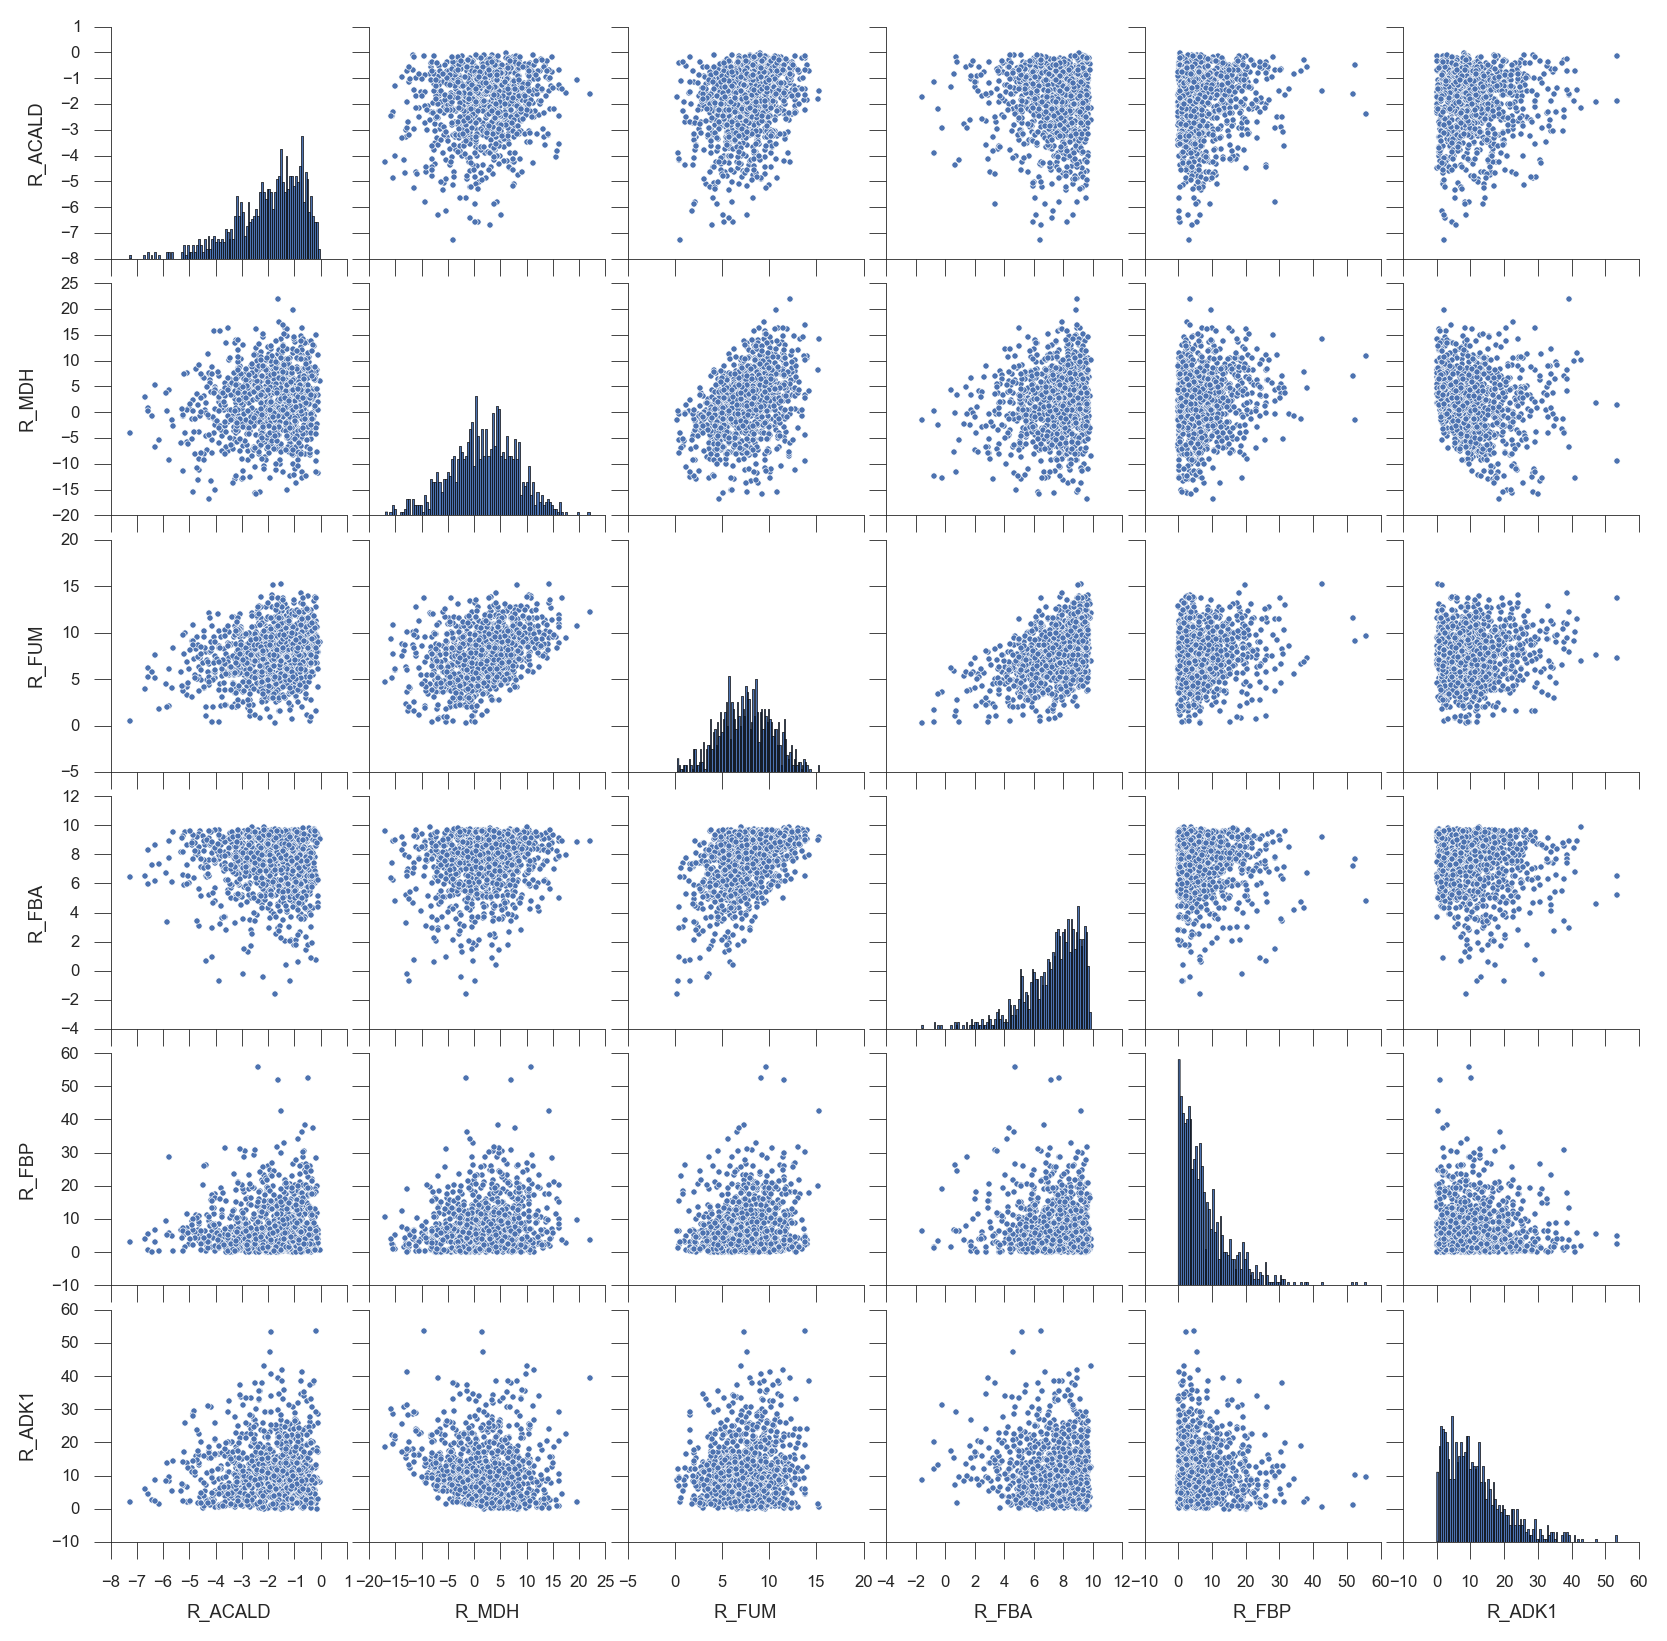
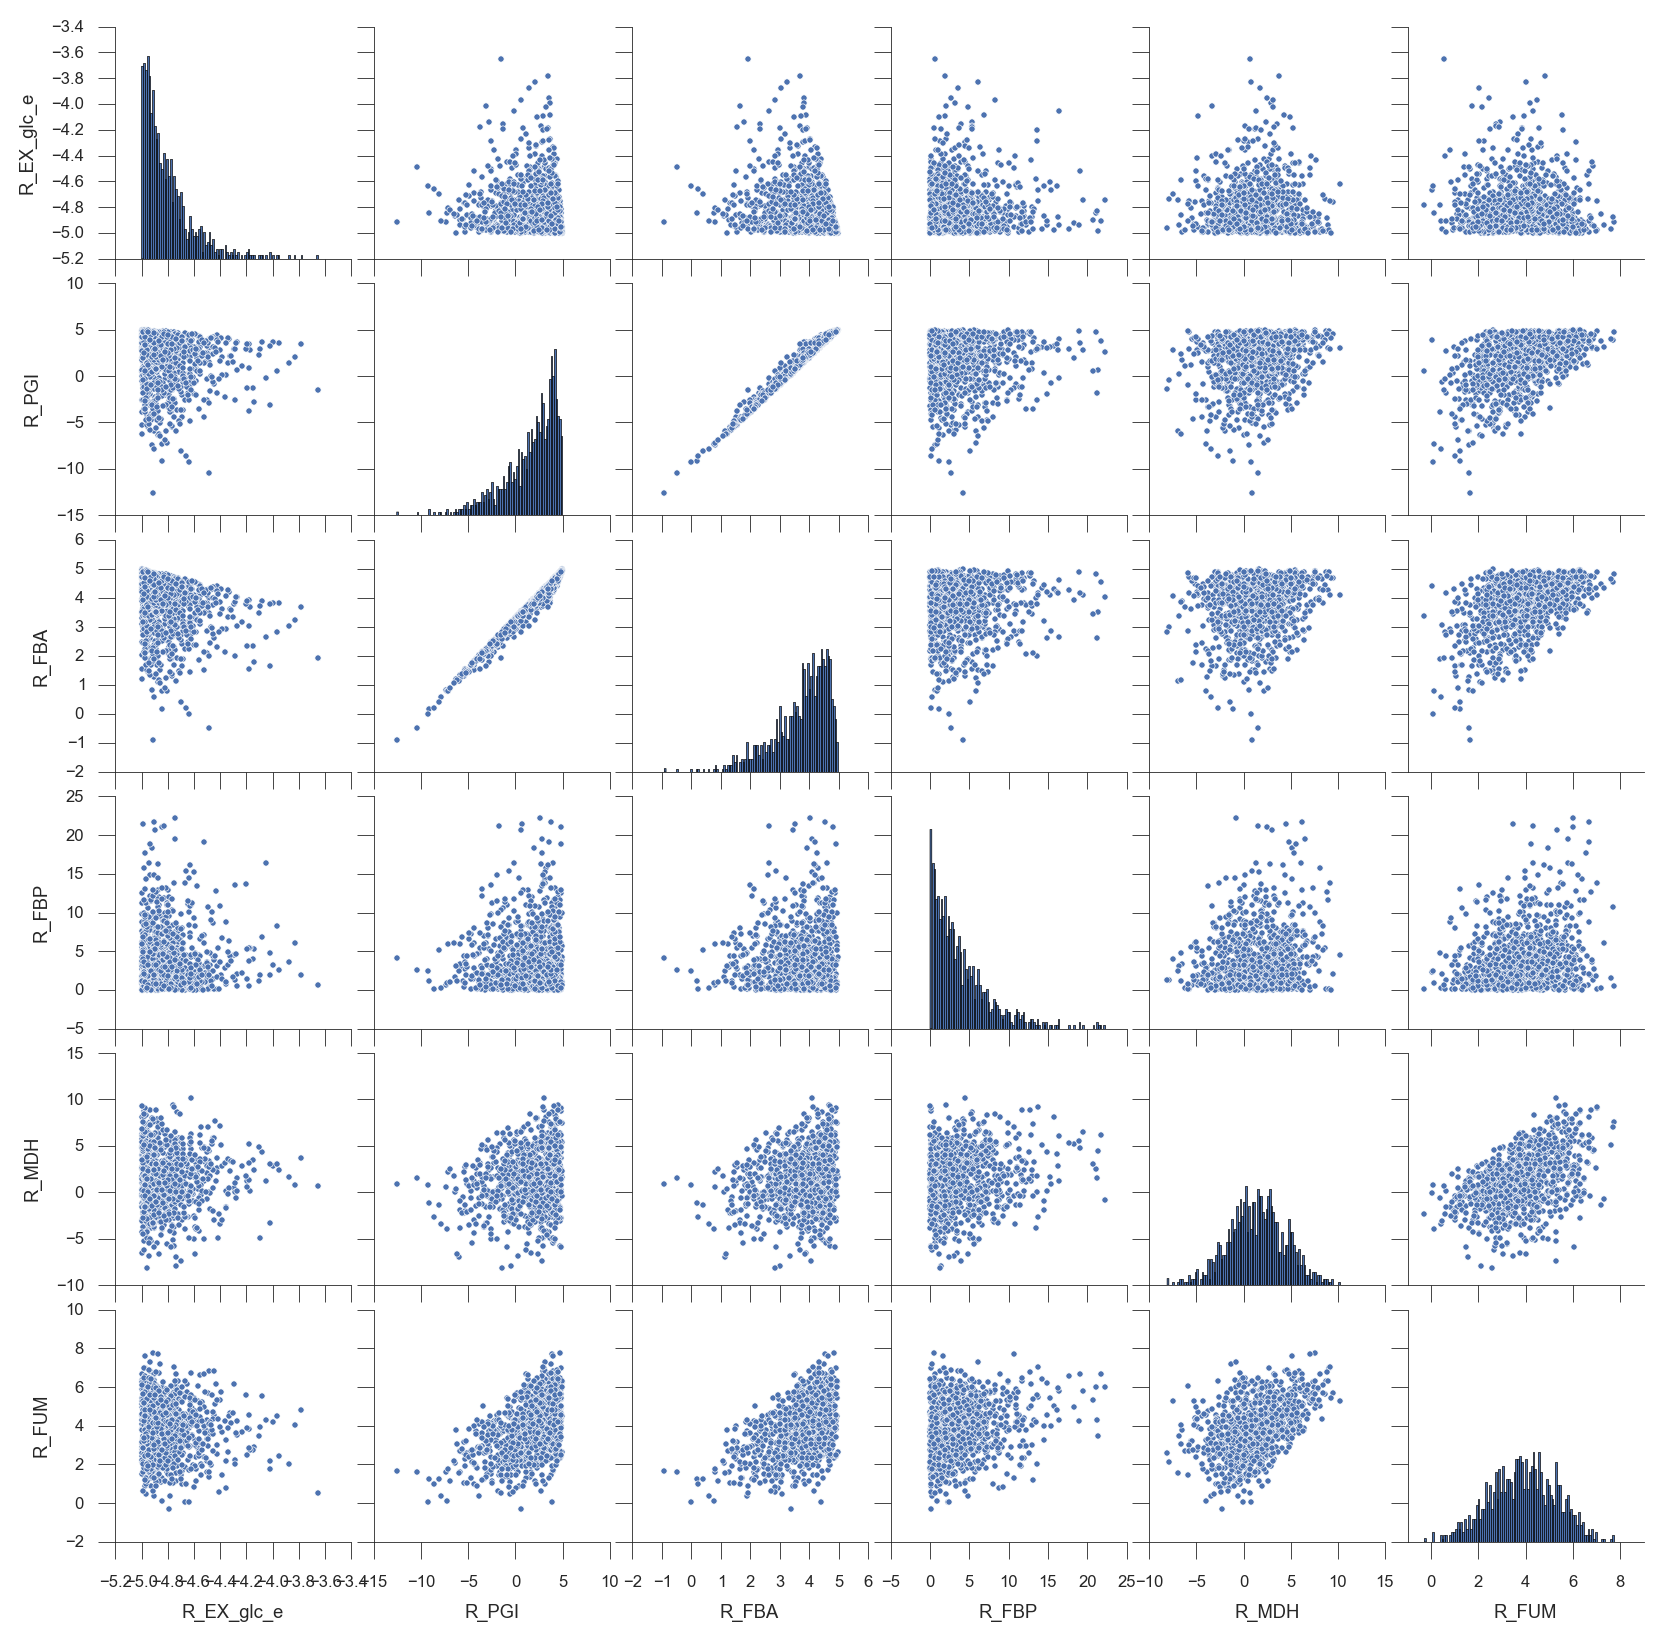
Constraints argument added to sampler function

diff --git a/src/hlrcc/metabolomics/sampler.py b/src/hlrcc/metabolomics/sampler.py
@@ -25,9 +25,9 @@ def set_null_space(S, tol=1e-12):
     return n, n.transpose()
 
 
-def get_warmup_points(model):
+def get_warmup_points(model, constraints=None):
     # Calculate warm-up points running FVA
-    fva = FVA(model)
+    fva = FVA(model, constraints=constraints)
 
     # Get upper and lower bounds
     reactions, lb, ub = zip(*[(r, fva[r][0].fobj if fva[r][0] else -np.Inf, fva[r][1].fobj if fva[r][1] else np.Inf) for r in fva])
@@ -129,12 +129,12 @@ def get_stoichiometric_matrix(model, reactions):
     return S
 
 
-def sample(model, n_samples=1000, n_steps=50, n_steps_projection=25, verbose=0):
+def sample(model, n_samples=1000, n_steps=50, n_steps_projection=25, constraints=None, verbose=0):
     # Set general variables
     in_null_space, n_pts_discarded = False, 0
 
     # Calculate warm-up points
-    lb, ub, warmup_points, reactions = get_warmup_points(model)
+    lb, ub, warmup_points, reactions = get_warmup_points(model, constraints)
 
     # Calculate centre point
     centre_point = warmup_points.mean(1)

diff --git a/src/hlrcc/tests/sampler_test.py b/src/hlrcc/tests/sampler_test.py
@@ -14,12 +14,15 @@ print 'Metabolites: %d, Reactions: %d, Genes: %d' % (len(model.metabolites), len
 simplify(model, inplace=True)
 print 'Metabolites: %d, Reactions: %d, Genes: %d' % (len(model.metabolites), len(model.reactions), len(model.genes))
 
+# Environmental conditions
+env = {'R_EX_glc_e': (-5, 0)}
+
 # Sampler
-solution = sample(model, n_samples=1000, n_steps=250, n_steps_projection=50, verbose=1)
+solution = sample(model, n_samples=1000, n_steps=250, n_steps_projection=50, constraints=env, verbose=1)
 print solution
 
 # Plotting
-reactions = ['R_ACALD', 'R_MDH', 'R_FUM', 'R_FBA', 'R_FBP', 'R_ADK1']
+reactions = ['R_EX_glc_e', 'R_PGI', 'R_FBA', 'R_FBP', 'R_MDH', 'R_FUM']
 
 sns.set(style='ticks', context='paper', font_scale=.75, rc={'axes.linewidth': .3, 'xtick.major.width': .3, 'ytick.major.width': .3})
 sns.pairplot(solution[reactions], diag_kws={'bins': 100}, plot_kws={'s': 5})
